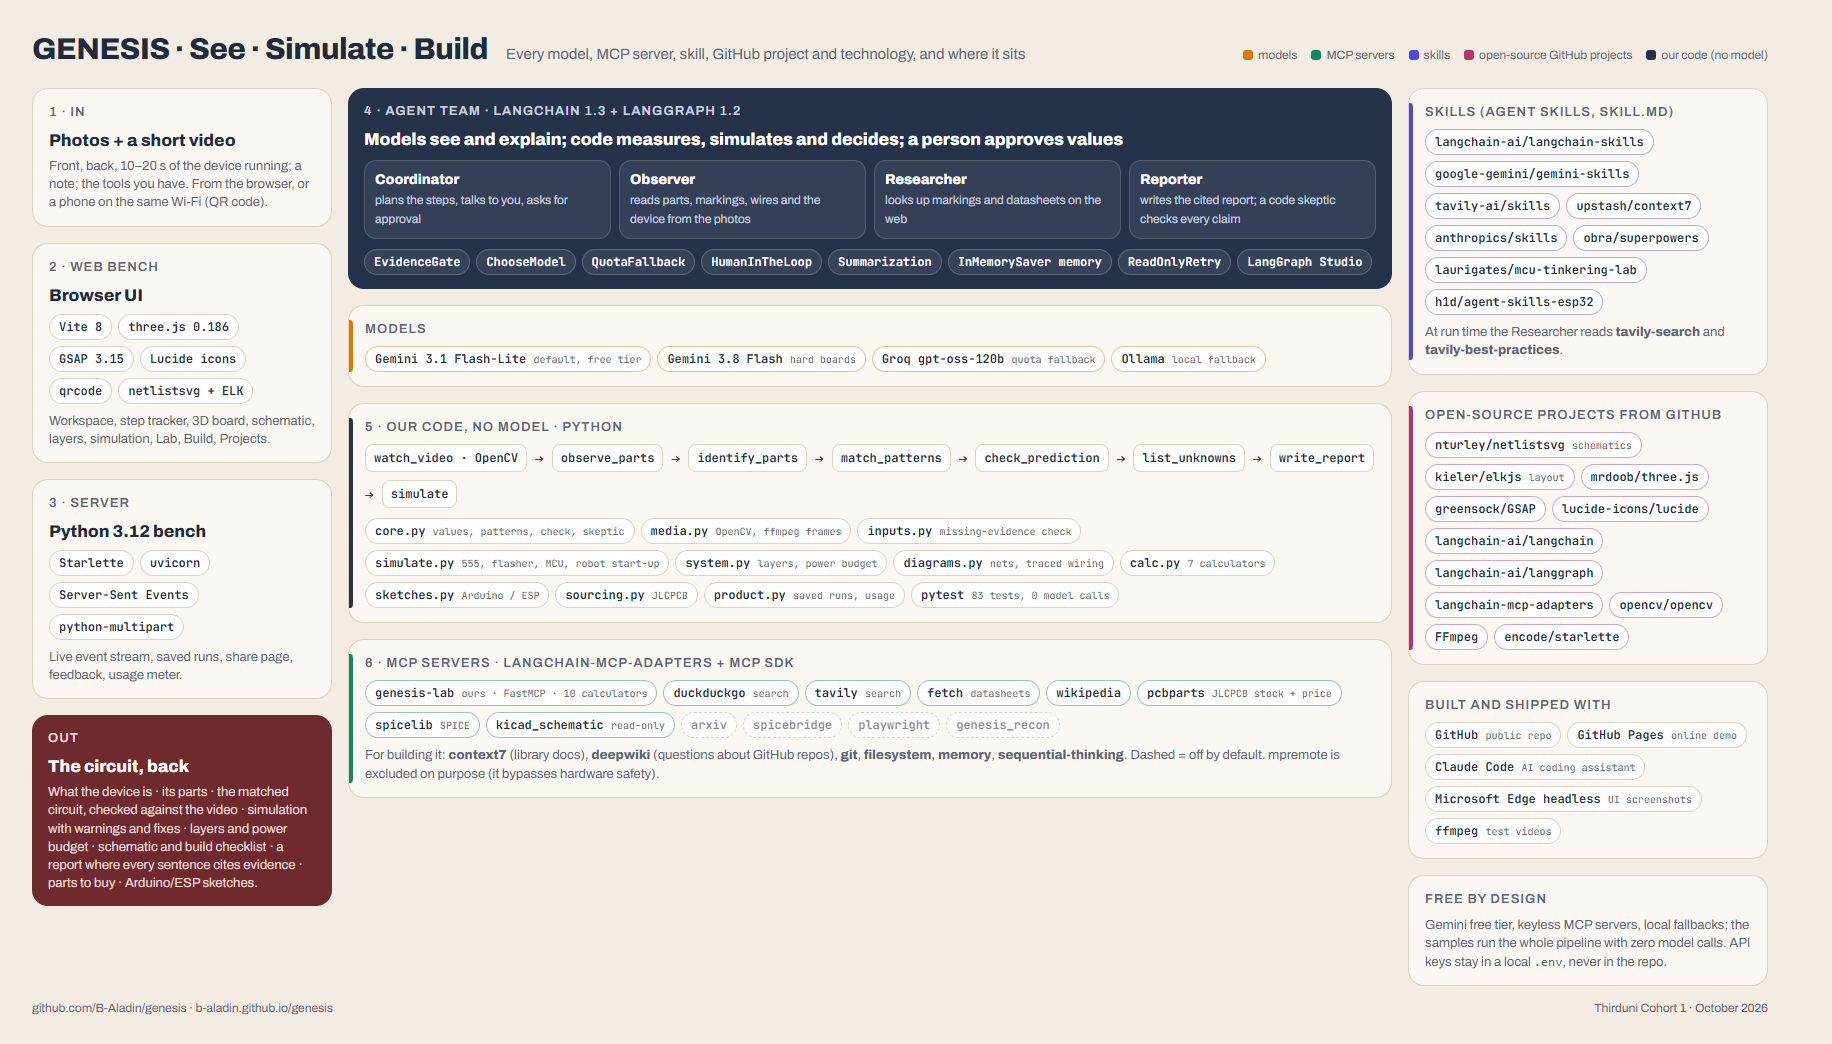
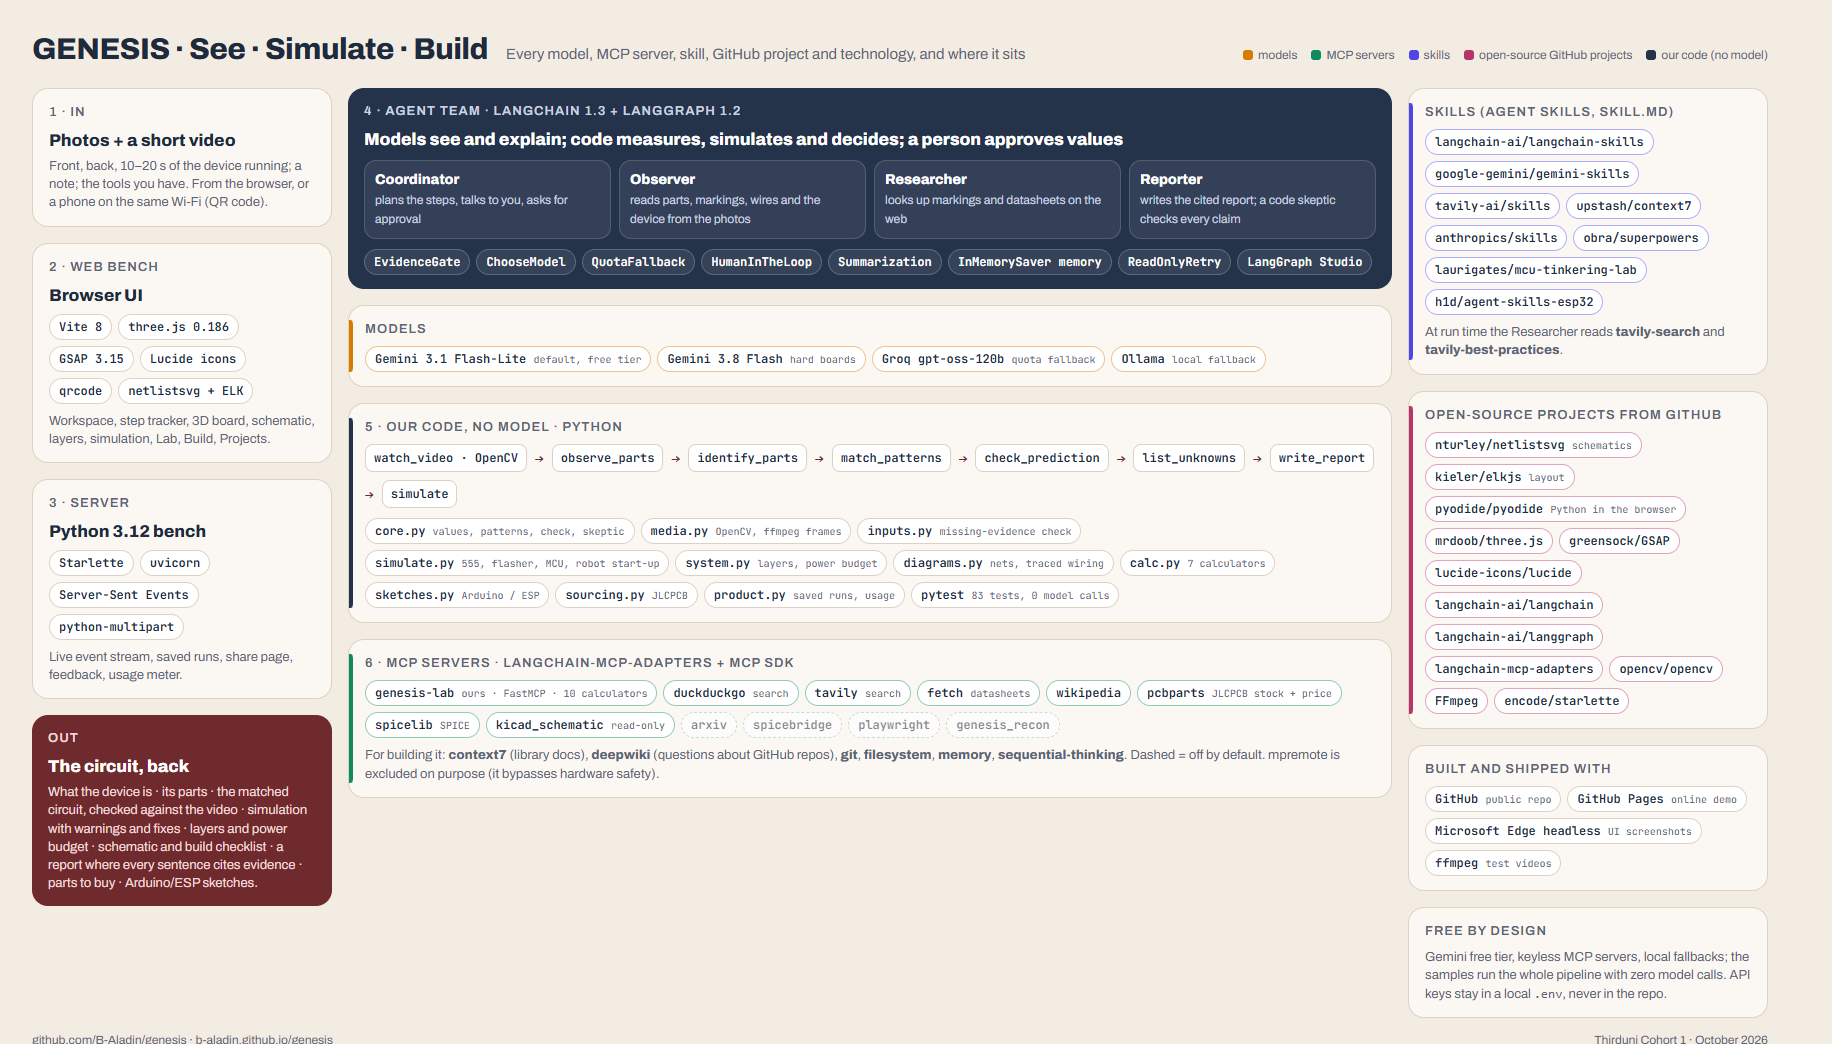
Online demo: what-ifs, Fix this and supply changes run the real Python simulator in the browser (Pyodide)

Changed region(s): [[0.7778, 0.4291, 0.9645, 1.0], [0.0, 0.9502, 0.1867, 1.0]]

diff --git a/web/src/static.js b/web/src/static.js
@@ -6,6 +6,30 @@
 export const STATIC = import.meta.env.MODE === "static";
 const BASE = import.meta.env.BASE_URL;
 const realFetch = window.fetch.bind(window);
+// The real simulation code (simulate.py and what it imports) runs in the browser on Pyodide, so what-ifs,
+// "Fix this" and supply changes are computed live, not replayed.
+const PY_SOURCES = import.meta.glob(["../../genesis_see/__init__.py", "../../genesis_see/core.py", "../../genesis_see/simulate.py",
+  "../../genesis_see/system.py", "../../genesis_see/diagrams.py", "../../genesis_see/sketches.py"], { query: "?raw", import: "default", eager: true });
+const PYODIDE = "https://cdn.jsdelivr.net/pyodide/v0.27.2/full/";
+let py = null;
+function python() {
+  return (py ||= (async () => {
+    window.dispatchEvent(new CustomEvent("genesis-toast", { detail: "Loading the Python simulator into your browser (first time only)…" }));
+    const { loadPyodide } = await import(/* @vite-ignore */ `${PYODIDE}pyodide.mjs`);
+    const p = await loadPyodide({ indexURL: PYODIDE });
+    await p.loadPackage("numpy");
+    p.FS.mkdirTree("/genesis/genesis_see");
+    for (const [path, src] of Object.entries(PY_SOURCES)) p.FS.writeFile(`/genesis/genesis_see/${path.split("/").pop()}`, src);
+    p.runPython("import sys, json; sys.path.insert(0, '/genesis'); from genesis_see import simulate");
+    return p;
+  })().catch(e => { py = null; throw e; }));
+}
+async function simulateInBrowser(state, overrides, supply) {
+  const p = await python().catch(() => python());     // one retry: the CDN download occasionally drops on the first try
+  p.globals.set("ARGS", JSON.stringify({ state, overrides, supply }));
+  return JSON.parse(p.runPython("a = json.loads(ARGS); json.dumps(simulate.simulate(a['state'], a['overrides'], a['supply']), default=str)"));
+}
+
 const LOCAL = "This online demo replays the recorded sample boards. To investigate your own device, run GENESIS on your computer (see the README on GitHub) with a free Gemini key.";
 
 let index = null;
@@ -212,9 +236,11 @@ async function api(method, path, body) {
       return json({ ok: true });
     }
     if (what === "simulate") {
-      if (Object.keys(body?.overrides || {}).length || body?.supply != null) return json({ error: "What-if simulation runs on the local bench. " + LOCAL }, 409);
       const st = [...(await getRun(id)).events].reverse().find(e => e.type === "state")?.state;
-      return json(st?.simulation || { available: false });
+      if (!Object.keys(body?.overrides || {}).length && body?.supply == null) return json(st?.simulation || { available: false });
+      if (body.supply != null && !(body.supply >= 0.5 && body.supply <= 60)) return json({ error: "supply must be between 0.5 and 60 V" }, 400);
+      try { return json(await simulateInBrowser(st, body.overrides || {}, body.supply ?? null)); }
+      catch (e) { console.warn(e); return json({ error: "The in-browser simulator couldn't load (it needs an internet connection to cdn.jsdelivr.net)." }, 503); }
     }
     if (what === "feedback" || what === "title") return json({ ok: true });
     return json({ error: LOCAL }, 409);

diff --git a/docs/stack-diagram.html b/docs/stack-diagram.html
@@ -141,14 +141,14 @@
     <div class="box gh"><span class="bar"></span>
       <h2>Open-source projects from GitHub</h2>
       <div class="chips">
-        <span class="chip">nturley/netlistsvg <small>schematics</small></span><span class="chip">kieler/elkjs <small>layout</small></span><span class="chip">mrdoob/three.js</span>
+        <span class="chip">nturley/netlistsvg <small>schematics</small></span><span class="chip">kieler/elkjs <small>layout</small></span><span class="chip">pyodide/pyodide <small>Python in the browser</small></span><span class="chip">mrdoob/three.js</span>
         <span class="chip">greensock/GSAP</span><span class="chip">lucide-icons/lucide</span><span class="chip">langchain-ai/langchain</span><span class="chip">langchain-ai/langgraph</span>
         <span class="chip">langchain-mcp-adapters</span><span class="chip">opencv/opencv</span><span class="chip">FFmpeg</span><span class="chip">encode/starlette</span>
       </div>
     </div>
     <div class="box">
       <h2>Built and shipped with</h2>
-      <div class="chips"><span class="chip">GitHub <small>public repo</small></span><span class="chip">GitHub Pages <small>online demo</small></span><span class="chip">Claude Code <small>AI coding assistant</small></span><span class="chip">Microsoft Edge headless <small>UI screenshots</small></span><span class="chip">ffmpeg <small>test videos</small></span></div>
+      <div class="chips"><span class="chip">GitHub <small>public repo</small></span><span class="chip">GitHub Pages <small>online demo</small></span><span class="chip">Microsoft Edge headless <small>UI screenshots</small></span><span class="chip">ffmpeg <small>test videos</small></span></div>
     </div>
     <div class="box">
       <h2>Free by design</h2>

diff --git a/web/src/main.js b/web/src/main.js
@@ -1361,8 +1361,9 @@ window.addEventListener("hashchange", () => { if (/^#report\//.test(location.has
 function staticNotice() {
   const n = document.createElement("div");
   n.className = "static-note";
-  n.innerHTML = `<b>Online demo.</b> Pick a sample below (555 blinker, ESP32 board or Robot car): it replays a real recorded run of the GENESIS pipeline.
+  n.innerHTML = `<b>Online demo.</b> Pick a sample below (555 blinker, ESP32 board or Robot car): it replays a real recorded run of the GENESIS pipeline, and what-ifs are simulated live by the real Python code running in your browser.
     To investigate your own device from photos and video, run GENESIS on your computer with a free Gemini key:
     <a href="https://github.com/B-Aladin/genesis#run-it-on-your-computer" target="_blank" rel="noopener">how to run it</a>.`;
   $("#intake").prepend(n);
 }
+window.addEventListener("genesis-toast", e => toast(e.detail));

diff --git a/README.md b/README.md
@@ -43,9 +43,8 @@ No key? The three sample boards run the whole pipeline for free. Details: [Set u
 | **Ala Eddine Benahmed** | Product and engineering: the agent team (LangChain / LangGraph on Gemini), the measurement, matching, simulation, layers and schematic code, the MCP servers and integrations, the web interface (three.js, GSAP), tests, and the GitHub Pages demo |
 | **Anfal M'siouri** | UI/UX design: the user experience and the look of the workspace (sidebar, workspace and panels, phone and tablet layouts) |
 
-**AI tools, stated openly:** GENESIS runs on Gemini models. We built it with
-**Claude Code** (Anthropic) as a coding assistant, plus the MCP servers and skills in
-the diagram above. Every feature was run, screenshotted and tested before it was kept.
+**AI tools:** GENESIS runs on Gemini models, with the MCP servers and skills in the
+diagram above. Every feature was run, screenshotted and tested before it was kept.
 
 ## What it can't do (yet)
 
